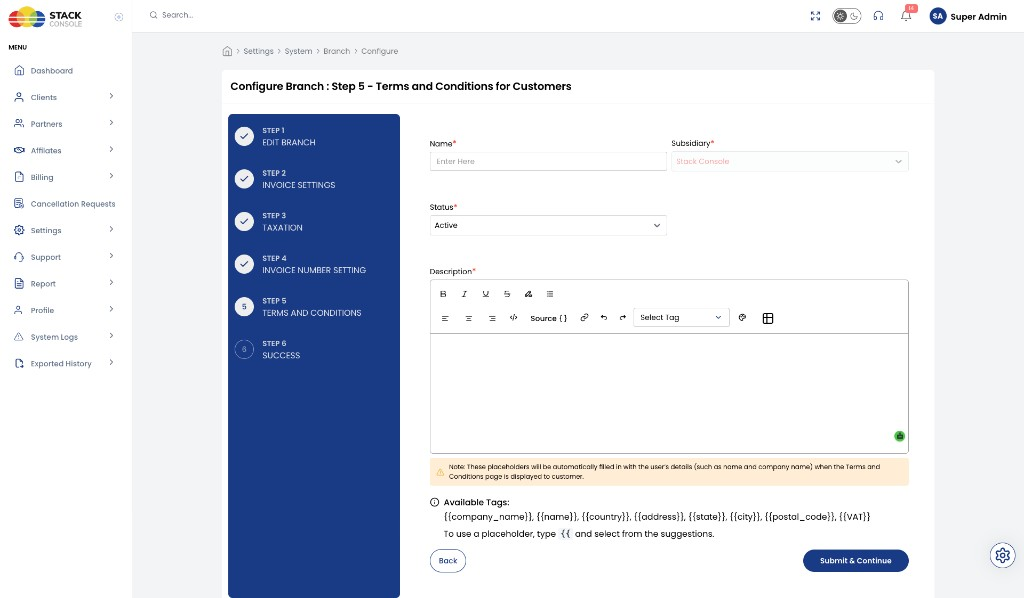
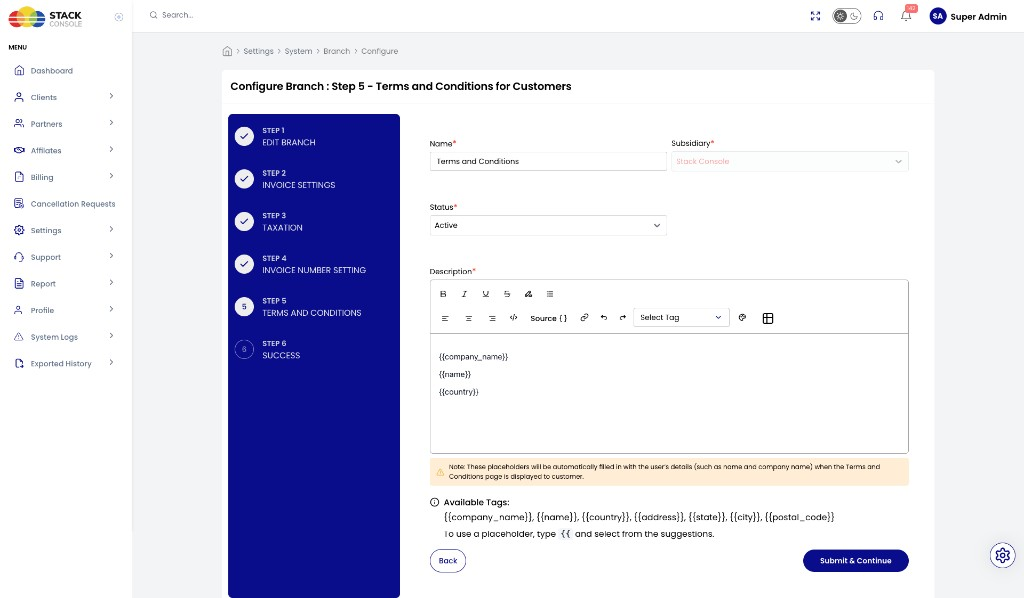
terms and conditions

diff --git a/sidebars.ts b/sidebars.ts
@@ -255,6 +255,18 @@ const sidebars: SidebarsConfig = {
         'platform-features/notifications',
         {
           type: 'category',
+          label: 'Terms and Conditions',
+          collapsible: true,
+          collapsed: true,
+          items: [
+            'platform-features/terms-and-conditions/index',
+            'platform-features/terms-and-conditions/one-liner',
+            'platform-features/terms-and-conditions/in-step-form',
+            'platform-features/terms-and-conditions/enforce',
+          ],
+        },
+        {
+          type: 'category',
           label: 'Store & Products',
           collapsible: true,
           collapsed: true,

diff --git a/sidebars.js b/sidebars.js
@@ -256,6 +256,18 @@ const sidebars = {
         'platform-features/notifications',
         {
           type: 'category',
+          label: 'Terms and Conditions',
+          collapsible: true,
+          collapsed: true,
+          items: [
+            'platform-features/terms-and-conditions/index',
+            'platform-features/terms-and-conditions/one-liner',
+            'platform-features/terms-and-conditions/in-step-form',
+            'platform-features/terms-and-conditions/enforce',
+          ],
+        },
+        {
+          type: 'category',
           label: 'Store & Products',
           collapsible: true,
           collapsed: true,

diff --git a/docs/platform-features/terms-and-conditions/in-step-form.md b/docs/platform-features/terms-and-conditions/in-step-form.md
@@ -1,0 +1,83 @@
+---
+sidebar_position: 3
+title: "In-step form (registration flow)"
+tags: ["platform", "terms", "registration", "branches"]
+---
+
+# In-step form (registration flow)
+
+In this approach, the **full Terms and Conditions** are shown **inside the registration flow** (for example the **Accept T&C** step after email verification and payment). Customers review and accept without leaving CMP for an external website.
+
+Use this when one-liner mode is not used, or when you want rich, branch-specific legal text with personalization.
+
+## Admin configuration (per branch)
+
+**Path:** **Admin → Settings → System → Branch → [branch] → Configure → Terms and Conditions** (wizard **Step 5**)
+
+See also the field reference: [Terms and conditions (branch wizard)](/billing/invoice-settings/terms-and-conditions) and [Branches](/billing/invoice-settings/branches).
+
+img/screenshots/cmp-branch-terms-and-conditions.png
+
+![Screenshot: Branch Configure — Step 5 Terms and Conditions for Customers](/img/screenshots/cmp-branch-terms-and-conditions.png)
+
+### Form fields
+
+**Name**
+
+*Required.* Name of this terms record (for example `Terms and Conditions`).
+
+**Subsidiary**
+
+*Required.* Branch / subsidiary this content belongs to (for example **Stack Console**). Often pre-selected for the branch you are configuring.
+
+**Status**
+
+*Required.* **Active** or inactive. Only **Active** terms are shown to customers.
+
+**Description**
+
+*Required.* Full terms body in the rich-text editor. Insert dynamic placeholders with **Select Tag** or by typing `{{`.
+
+:::info[Placeholders]
+
+Placeholders are filled automatically with the customer’s details when Terms and Conditions are displayed.
+
+| Tag | Typical use |
+|---|---|
+| `{{company_name}}` | End client / company name |
+| `{{name}}` | End client name / contact name |
+| `{{country}}` | Client country |
+| `{{address}}` | Address |
+| `{{state}}` | State / province |
+| `{{city}}` | City |
+| `{{postal_code}}` | Postal / ZIP code |
+
+To insert a placeholder, type `{{` and pick from suggestions, or use **Select Tag** in the toolbar.
+
+:::
+
+Click **Submit & Continue** to finish the wizard (**Step 6: Success**).
+
+## Customer registration view
+
+During onboarding, the **Accept T&C** step shows the full document in-page. Customers can finish with **Done**, or **Skip** when enforcement is disabled.
+
+img/screenshots/cmp-registration-terms-in-step.png
+
+![Screenshot: Registration flow — Accept T&C in-step form](/img/screenshots/cmp-registration-terms-in-step.png)
+
+## Customer Profile view (on-page)
+
+After registration, **Profile → Terms & Conditions** can show the same in-product document (scrollable), with **Accepted At** when acceptance was recorded.
+
+img/screenshots/cmp-profile-terms-on-page.png
+
+![Screenshot: Customer Profile — on-page Terms & Conditions](/img/screenshots/cmp-profile-terms-on-page.png)
+
+## Related
+
+* [Terms and Conditions overview](/platform-features/terms-and-conditions/)
+* [One-liner (checkbox + URL)](/platform-features/terms-and-conditions/one-liner)
+* [Enforce Terms & Conditions](/platform-features/terms-and-conditions/enforce)
+* [Branches](/billing/invoice-settings/branches)
+* [Branch wizard — Terms and conditions](/billing/invoice-settings/terms-and-conditions)

diff --git a/docs/platform-features/terms-and-conditions/one-liner.md b/docs/platform-features/terms-and-conditions/one-liner.md
@@ -1,0 +1,66 @@
+---
+sidebar_position: 2
+title: "One-liner (checkbox + URL)"
+tags: ["platform", "terms", "registration", "global-settings"]
+---
+
+# One-liner (checkbox + URL)
+
+**One-liner** Terms and Conditions shows a checkbox on the frontend **Signup** form. The label includes a link that opens the provider’s public Terms and Conditions page in a new browser tab.
+
+Customers must tick the checkbox before they can continue registration (for example to the Complete Payment step).
+
+## Enable the global setting
+
+**Path:** **Admin Panel → Global Settings**
+
+| Setting | Value |
+|---|---|
+| **Flag name** | `terms_conditions_one_liner` |
+| **Category** | Login/Register |
+| **Description** | Terms and conditions text displayed for the checkbox on the signup form |
+
+**Value:** HTML that includes the Accept label and a link to your Terms page. Use this format:
+
+```html
+<p>
+Accept
+  <a href="https://www.example.com/index.html" target="_blank" style="color: blue;">
+    Terms and Conditions
+  </a>
+</p>
+```
+
+Replace the `href` with your real Terms and Conditions URL.
+
+:::info
+
+After you enable and save this global setting, the Accept Terms and Conditions checkbox appears on the frontend Signup form.
+
+:::
+
+## User flow
+
+1. The user opens the **Signup** form.
+2. An **Accept Terms and Conditions** checkbox is shown (from the HTML in `terms_conditions_one_liner`).
+3. The user must tick the checkbox to proceed with registration.
+4. Clicking the link opens the configured URL (`target="_blank"`) where the full Terms can be read.
+5. Only after accepting Terms and Conditions can the user continue (for example to **Complete Payment**).
+
+## Customer Profile view (URL mode)
+
+When terms are provided as an external URL, **Profile → Terms & Conditions** shows the link (opens in a new window). **Accepted At** shows when the customer accepted, or `-` if not yet recorded.
+
+img/screenshots/cmp-profile-terms-url-link.png
+
+![Screenshot: Customer Profile — Terms & Conditions as external URL](/img/screenshots/cmp-profile-terms-url-link.png)
+
+## Enforce behaviour with one-liner
+
+For one-liner mode, acceptance is **mandatory by default** (`enforce_terms_condition` is treated as required). See [Enforce Terms & Conditions](/platform-features/terms-and-conditions/enforce).
+
+## Related
+
+* [Terms and Conditions overview](/platform-features/terms-and-conditions/)
+* [In-step form](/platform-features/terms-and-conditions/in-step-form)
+* [Enforce Terms & Conditions](/platform-features/terms-and-conditions/enforce)

diff --git a/docs/platform-features/terms-and-conditions/index.md b/docs/platform-features/terms-and-conditions/index.md
@@ -1,0 +1,48 @@
+---
+sidebar_position: 1
+title: "Terms and Conditions"
+tags: ["platform", "terms", "registration", "global-settings"]
+---
+
+# Terms and Conditions
+
+CMP can require customers to accept **Terms and Conditions** during signup and onboarding. Admins choose how terms are shown (external link vs in-product content) and whether acceptance is mandatory.
+
+## Modes at a glance
+
+| Mode | How customers see T&C | Admin configuration |
+|---|---|---|
+| **[One-liner](/platform-features/terms-and-conditions/one-liner)** | Checkbox on the signup form; link opens the provider’s web page | Global Setting `terms_conditions_one_liner` |
+| **[In-step form](/platform-features/terms-and-conditions/in-step-form)** | Full terms inside the registration flow (no separate website required) | Branch wizard **Step 5** + placeholders |
+| **[Enforce acceptance](/platform-features/terms-and-conditions/enforce)** | Controls whether acceptance is required to finish onboarding | Global Setting `enforce_terms_condition` |
+
+:::tip[Which mode should I use?]
+
+* Use **one-liner** when legal terms live on your corporate website and you only need a signup checkbox + link.
+* Use **in-step form** when you want the full document inside CMP (branch-specific text and dynamic placeholders such as customer name and company).
+* Use **enforce** when one-liner is **disabled** and you still need mandatory acceptance of the in-product terms.
+
+:::
+
+## Related CMP paths
+
+| Area | Path |
+|---|---|
+| Global flags | **Admin Panel → Global Settings** (category **Login/Register**) |
+| Branch in-page terms | **Settings → System → Branch → Configure → Terms and Conditions** (wizard Step 5) |
+| Customer view | **Profile → Terms & Conditions** |
+
+Branch Step 5 field reference also lives under Billing → Invoice Settings: [Terms and conditions (branch wizard)](/billing/invoice-settings/terms-and-conditions).
+
+## Pages in this section
+
+* [One-liner (checkbox + URL)](/platform-features/terms-and-conditions/one-liner)
+* [In-step form (registration flow)](/platform-features/terms-and-conditions/in-step-form)
+* [Enforce Terms & Conditions](/platform-features/terms-and-conditions/enforce)
+
+## Related
+
+* [Branches](/billing/invoice-settings/branches)
+* [Branch wizard — Terms and conditions](/billing/invoice-settings/terms-and-conditions)
+* [Accounts & onboarding FAQ](/faq/platform/accounts-onboarding)
+* [Platform Features](/platform-features/)

diff --git a/docs/billing/invoice-settings/branches.md b/docs/billing/invoice-settings/branches.md
@@ -67,7 +67,7 @@ Tax percentages are documented under [Taxation](/billing/invoice-settings/taxati
 | 2. **Invoice Settings** | [Invoice settings](/billing/invoice-settings/invoice-details) |
 | 3. **Taxation** | [Taxation](/billing/invoice-settings/taxation) |
 | 4. **Invoice Number Setting** | [Invoice number settings](/billing/invoice-settings/invoice-number) |
-| 5. **Terms and Conditions** | [Terms and conditions](/billing/invoice-settings/terms-and-conditions) |
+| 5. **Terms and Conditions** | [Branch wizard fields](/billing/invoice-settings/terms-and-conditions) · [Registration modes (Platform)](/platform-features/terms-and-conditions/) |
 | 6. **Success** | Finish |
 
 **Mark as Default** becomes available only after you complete all configuration steps. Only **one** branch can be default.
@@ -133,11 +133,14 @@ Use **+ Add New Branch** to start the wizard, or the row actions menu to manage 
 | **[Payment gateways](/billing/payment-gateways/)** | **Required:** assign each gateway to the branch(es) where it should appear — otherwise customers do not see it |
 | **[Manual payment](/billing/payment-modes/manual)** | Show bank details from [invoice settings](/billing/invoice-settings/invoice-details) on invoices |
 | **Invoices** | Legal name, address, logo, tax, number, and terms come from the customer’s branch |
+| **[Terms and Conditions](/platform-features/terms-and-conditions/)** | Step 5 configures [in-step registration T&C](/platform-features/terms-and-conditions/in-step-form) with placeholders |
 
 ## Related
 
 * [Invoice Settings hub](/billing/invoice-settings/)
 * [Invoice settings (details)](/billing/invoice-settings/invoice-details)
 * [Taxation](/billing/invoice-settings/taxation)
+* [Terms and conditions (branch wizard)](/billing/invoice-settings/terms-and-conditions)
+* [Platform — Terms and Conditions](/platform-features/terms-and-conditions/)
 * [Payment Gateways — branch visibility](/billing/payment-gateways/#1-payment-gateway-settings-branch-visibility)
 * [Billing overview](/billing/overview)

diff --git a/docs/platform-features/terms-and-conditions/enforce.md b/docs/platform-features/terms-and-conditions/enforce.md
@@ -1,0 +1,42 @@
+---
+sidebar_position: 4
+title: "Enforce Terms & Conditions"
+tags: ["platform", "terms", "registration", "global-settings"]
+---
+
+# Enforce Terms & Conditions
+
+When **one-liner** mode is **disabled**, use this flag to require (or allow skipping) acceptance of the full in-product Terms and Conditions.
+
+**Path:** **Admin Panel → Global Settings**
+
+| Setting | Value |
+|---|---|
+| **Flag name** | `enforce_terms_condition` |
+| **Typical values** | `true` / `false` |
+
+:::tip[If one-liner is enabled]
+
+For [one-liner](/platform-features/terms-and-conditions/one-liner) Terms and Conditions, this flag is effectively **true by default** — the signup checkbox must be accepted. Use `enforce_terms_condition` primarily when one-liner is **disabled** and you rely on the [in-step form](/platform-features/terms-and-conditions/in-step-form).
+
+:::
+
+## When enabled (`true`)
+
+* Users must read and accept the complete Terms and Conditions during registration / onboarding.
+* Onboarding is **not** complete until Terms and Conditions are accepted.
+* Users cannot proceed to create services or use the platform without acceptance.
+
+## When disabled (`false`)
+
+* Acceptance becomes **optional**.
+* Users can **Skip** the Terms step and continue to create services and use the platform.
+
+Pending accounts that never accepted Terms may still appear as incomplete onboarding — see [Accounts & onboarding FAQ](/faq/platform/accounts-onboarding).
+
+## Related
+
+* [Terms and Conditions overview](/platform-features/terms-and-conditions/)
+* [One-liner (checkbox + URL)](/platform-features/terms-and-conditions/one-liner)
+* [In-step form](/platform-features/terms-and-conditions/in-step-form)
+* [Accounts & onboarding FAQ](/faq/platform/accounts-onboarding)

diff --git a/docs/billing/invoice-settings/terms-and-conditions.md b/docs/billing/invoice-settings/terms-and-conditions.md
@@ -14,7 +14,9 @@ img/screenshots/cmp-branch-terms-and-conditions.png
 
 ![Screenshot: CMP — Configure Branch Step 5 Terms and Conditions](/img/screenshots/cmp-branch-terms-and-conditions.png)
 
-This is separate from the optional **Invoice Terms & Conditions** rich text on [Invoice settings](/billing/invoice-settings/invoice-details) (Step 2), which prints terms on the invoice PDF. Step 5 configures the customer-facing terms document for the branch / subsidiary.
+This is separate from the optional **Invoice Terms & Conditions** rich text on [Invoice settings](/billing/invoice-settings/invoice-details) (Step 2), which prints terms on the invoice PDF. Step 5 configures the customer-facing terms document for the branch / subsidiary used in the **[in-step registration flow](/platform-features/terms-and-conditions/in-step-form)**.
+
+For signup checkbox + external URL mode, and the enforce flag, see **[Platform Features → Terms and Conditions](/platform-features/terms-and-conditions/)**.
 
 ## Form fields
 
@@ -57,6 +59,8 @@ Click **Submit & Continue** to finish the wizard (**Step 6: Success**).
 
 ## Related
 
+* [Platform Features — Terms and Conditions](/platform-features/terms-and-conditions/) — one-liner, in-step registration, enforce
+* [In-step form](/platform-features/terms-and-conditions/in-step-form)
 * [Branches](/billing/invoice-settings/branches)
 * [Invoice settings](/billing/invoice-settings/invoice-details) — invoice PDF terms field
 * [Invoice number settings](/billing/invoice-settings/invoice-number)

diff --git a/docs/platform-features/index.md b/docs/platform-features/index.md
@@ -19,9 +19,10 @@ This section covers **CMP-level capabilities** that are not tied to a single orc
 |---|---|---|
 | APIs | Ready | [APIs](/platform-features/apis) — access tokens, roles, integrations |
 | Notifications | Stub | [Notifications](/platform-features/notifications) |
+| Terms and Conditions | Ready | [Terms and Conditions](/platform-features/terms-and-conditions/) — one-liner, in-step registration, enforce flag |
 | Store & Products | Ready | [Store & Products](/platform-features/store/) — non-automated catalogue, vendors, orders, customer Store, billing rules |
 
-Invoice branding, branches, and tax live under **Billing & Invoicing → [Invoice Settings](/billing/invoice-settings/)**.
+Invoice branding, branches, and tax live under **Billing & Invoicing → [Invoice Settings](/billing/invoice-settings/)**. Branch wizard Step 5 (in-page T&C content) is also linked from [Terms and Conditions — In-step form](/platform-features/terms-and-conditions/in-step-form).
 
 :::info[How this section grows]
 

diff --git a/docs/billing/invoice-settings/index.md b/docs/billing/invoice-settings/index.md
@@ -26,7 +26,7 @@ Without this mapping, customers will not see those gateways. Details: [Payment G
 | **[Invoice settings](/billing/invoice-settings/invoice-details)** | Address, logo, signature, bank details, declaration, notes on the invoice |
 | **[Invoice number settings](/billing/invoice-settings/invoice-number)** | How invoice numbers are generated for the branch |
 | **[Taxation](/billing/invoice-settings/taxation)** | Country tax label + Organization / Personal percentages per branch |
-| **[Terms and conditions](/billing/invoice-settings/terms-and-conditions)** | Legal terms printed on invoices |
+| **[Terms and conditions](/billing/invoice-settings/terms-and-conditions)** | Branch Step 5 customer-facing T&C (in-step registration) — see also [Platform Terms and Conditions](/platform-features/terms-and-conditions/) |
 
 :::tip[Quick start]
 

diff --git a/docs/faq/platform/accounts-onboarding.md b/docs/faq/platform/accounts-onboarding.md
@@ -15,7 +15,7 @@ There is no separate “blocked by limit” registration trap by default. **Pend
 * Payment method not added (when required by mode)  
 * Email not verified  
 * KYC enabled and not yet approved  
-* Terms and Conditions not accepted  
+* Terms and Conditions not accepted — see [Terms and Conditions](/platform-features/terms-and-conditions/) and [Enforce](/platform-features/terms-and-conditions/enforce)
 
 ### Manual registration / manual onboarding
 

diff --git a/docs/platform-features/branches.md b/docs/platform-features/branches.md
@@ -15,3 +15,4 @@ Branch and invoice configuration has moved under **Billing & Invoicing → Invoi
 * [Invoice number settings](/billing/invoice-settings/invoice-number)
 * [Taxation](/billing/invoice-settings/taxation)
 * [Terms and conditions](/billing/invoice-settings/terms-and-conditions)
+* [Platform — Terms and Conditions](/platform-features/terms-and-conditions/) — signup one-liner, in-step flow, enforce flag
